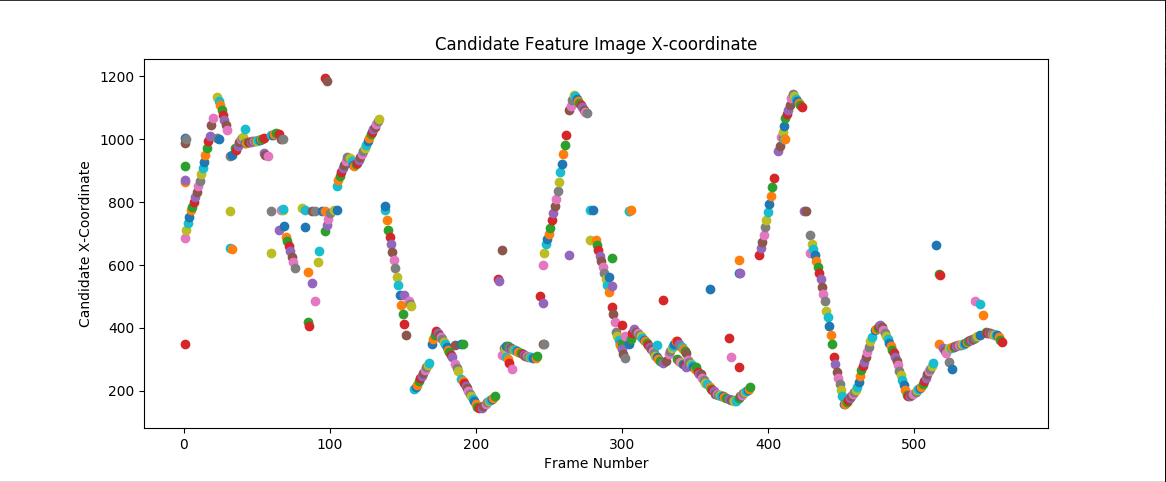
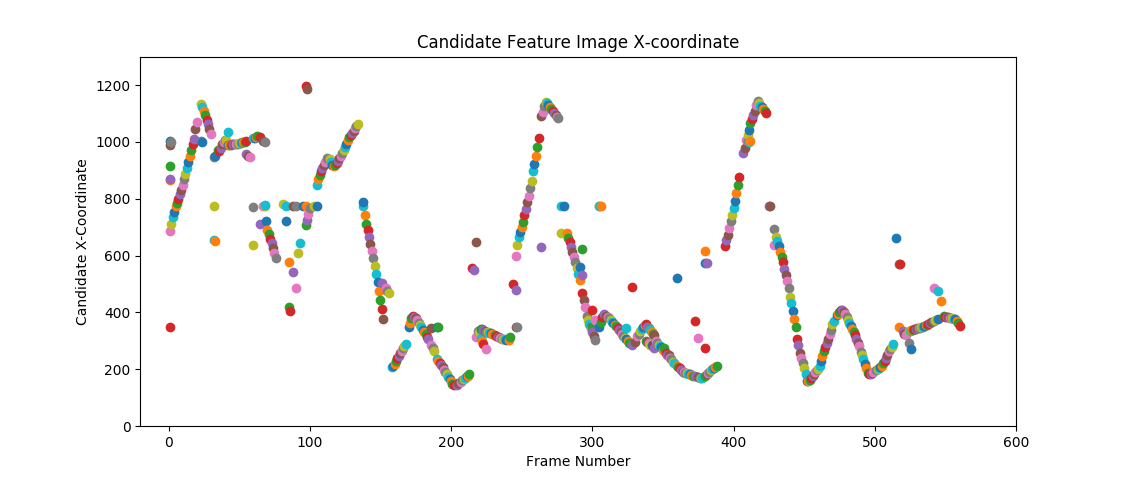
Results updated,debug added

diff --git a/kalmanCFI.py b/kalmanCFI.py
@@ -9,11 +9,14 @@ from Modules.foregroundExtraction import readyFrame, frameDifferencing, morpholo
 from Modules.ballDetection import findContours, sizeDetection, playerProximityDetection, regionDetection, courtBoundaryDetection
 
 startTimeReadingFrames = time.time()
-datasetName = "Dataset1"
+datasetName = "Dataset2"
 # Location of dataset
 filenames = glob.glob(datasetName + "/*.jpg")
-totalFramesDataset2 = 194
-totalFramesDataset1 = 560
+
+if (datasetName == "Dataset1"):
+    totalFramesDataset = 560
+elif (datasetName == "Dataset2"):
+    totalFramesDataset = 194
 
 # Reading each frame and storing it in a list
 frameList = [cv2.imread(frame) for frame in natural_sort(filenames)]
@@ -69,6 +72,9 @@ while i < (len(frameList)-2):
     # Performing morphological operations
     final_image = morphologicalOperations(threshFrameDifferencing, 4, 4)
 
+    # final_image = cv2.medianBlur(final_image,7)
+
+    cv2.imshow('final image', final_image)
     endTimeForegroundExtraction = time.time()
     print("Foreground Extraction--- %s seconds ---" %
           (endTimeForegroundExtraction - startTimeForeGroundExtraction))
@@ -144,7 +150,8 @@ while i < (len(frameList)-2):
         cv2.circle(currFrame, (tp[0], tp[1]), 10, (0, 0, 255), -1)
         dictFrameNumberscX[i + 1] = tp[0]
         dictFrameNumberscY[i + 1] = tp[1]
-        # cv2.imshow('Candidate image', currFrame)
+        if(__debug__):
+            cv2.imshow('Candidate image', currFrame)
     # If not the first frame
     else:
         # Do Prediction
@@ -155,6 +162,8 @@ while i < (len(frameList)-2):
         # If one candidate, measure and correct
         if (len(ballCandidatesFilteredProximity) == 1):
             for cand in ballCandidatesFilteredProximity:
+                # distncePredAct = math.sqrt(
+                #     math.pow((cand[0] - tp[0]), 2) + math.pow((cand[1] - tp[1]), 2))
                 x = cand[0]
                 y = cand[1]
                 x = x - initstate[0]
@@ -166,11 +175,9 @@ while i < (len(frameList)-2):
                 cv2.circle(
                     currFrame, (corrected[0], corrected[1]), 10, (0, 255, 0), -1)
                 dictFrameNumberscX[i + 1] = corrected[0]
-                dictFrameNumberscY[i+1] = corrected[1]
-                # cv2.circle(currFrame, (tp[0], tp[1]),
+                dictFrameNumberscY[i + 1] = corrected[1]
+            # cv2.circle(currFrame, (tp[0], tp[1]),
                 #            10, (0, 0, 255), -1)  # pred
-                distncePredAct = math.sqrt(
-                    math.pow((cand[0] - tp[0]), 2) + math.pow((cand[1] - tp[1]), 2))
 
                 # #drawing a line
                 # cv2.line(currFrame, (int(cand[0]), int(cand[1])), (int(
@@ -183,11 +190,12 @@ while i < (len(frameList)-2):
                 # print("Distance predact {}".format(distncePredAct))
 
                 cv2.drawContours(currFrame, [cand[3]], -1, (255, 0,), 2)
-                cv2.putText(currFrame, str(cand[0]) + "," + str(
-                    cand[1]), (cand[0] + 1, cand[1] + 1), cv2.FONT_HERSHEY_SIMPLEX, 0.5, (255, 255, 255), 2)
-                # cv2.imshow('Candidate image', currFrame)
+                cv2.putText(currFrame, str(
+                    cand[2]), (cand[0] + 1, cand[1] + 1), cv2.FONT_HERSHEY_SIMPLEX, 0.5, (255, 255, 255), 2)
+            if(__debug__):
+                cv2.imshow('Candidate image', currFrame)
 
-        # If multiple candidates, 
+        # If multiple candidates,
         elif(len(ballCandidatesFilteredProximity) > 1):
             minDistObject = 1000
             minDistXcoord = 0
@@ -231,27 +239,30 @@ while i < (len(frameList)-2):
                 dictFrameNumberscY[i+1] = corrected[1]
 
                 cv2.drawContours(currFrame, [cand[3]], -1, (255, 0,), 2)
-                cv2.putText(currFrame, str(cand[0]) + "," + str(
-                    cand[1]), (cand[0] + 1, cand[1] + 1), cv2.FONT_HERSHEY_SIMPLEX, 0.5, (255, 255, 255), 2)
-                # cv2.imshow('Candidate image', currFrame)
+                cv2.putText(currFrame, str(
+                    cand[2]), (cand[0] + 1, cand[1] + 1), cv2.FONT_HERSHEY_SIMPLEX, 0.5, (255, 255, 255), 2)
+            if(__debug__):
+                cv2.imshow('Candidate image', currFrame)
         # If no candidate detected, predict only
         else:
             cv2.circle(currFrame, (tp[0], tp[1]), 10, (0, 0, 255), -1)
             dictFrameNumberscX[i + 1] = tp[0]
             dictFrameNumberscY[i+1] = tp[1]
-            # cv2.imshow('Candidate image', currFrame)
+            if(__debug__):
+                cv2.imshow('Candidate image', currFrame)
 
     endKalmanPredTime = time.time()
 
     trackingTime.append((endKalmanPredTime -
-                                                    startKalmanPredTime)+(endKalmanInitTime-startKalmanInitTime))
+                         startKalmanPredTime)+(endKalmanInitTime-startKalmanInitTime))
 
     print("Ball Tracking in --- %s seconds ---" % ((endKalmanPredTime -
                                                     startKalmanPredTime)+(endKalmanInitTime-startKalmanInitTime)))
 
     # Print Ball Trajectory 2D Feature Image
-    if (((i + 1) % totalFramesDataset1) == 0):
-        print("Average Tracking Time: {}".format(sum(trackingTime)/totalFramesDataset1))
+    if (((i + 1) % totalFramesDataset) == 0):
+        print("Average Tracking Time: {}".format(
+            sum(trackingTime)/totalFramesDataset))
         # print(dictFrameNumberscX)
         keys = list(dictFrameNumberscX.keys())
         xvalues = list(dictFrameNumberscX.values())
@@ -260,12 +271,16 @@ while i < (len(frameList)-2):
         plt.ylabel('Candidate Kalman X-Coordinate')
         plt.title('CFI with Kalman X Prediction')
         plt.plot(keys, xvalues, 'r--', linewidth=2)
+        # plt.axis([-20, 600, 0, 1300])
+        # plt.axis([-20,210,100,1200])
         plt.show()
 
         plt.xlabel('Frame Number')
         plt.ylabel('Candidate Kalman Y-Coordinate')
         plt.title('CFI with Kalman Y Prediction')
         plt.plot(keys, yvalues, 'g--', linewidth=2)
+        # plt.axis([-20, 600, 25, 1000])
+        # plt.axis([-20,210,50,900])
         plt.show()
 
         # scatter plot
@@ -293,10 +308,11 @@ while i < (len(frameList)-2):
     i += 1  # increments the loop
 
     # Exits the loop when Esc is pressed, goes to previous frame when space pressed and goes to next frame when any other key is pressed
-    # k = cv2.waitKey(0)
-    # if k == 27:
-    #     break
-    # elif k == 32:
-    #     i -= 2
-    # else:
-    #     continue
+    if(__debug__):
+        k = cv2.waitKey(0)
+        if k == 27:
+            break
+        elif k == 32:
+            i -= 2
+        else:
+            continue

diff --git a/hawkEyeCFI.py b/hawkEyeCFI.py
@@ -7,11 +7,13 @@ from Modules.foregroundExtraction import readyFrame, frameDifferencing, morpholo
 from Modules.ballDetection import findContours, sizeDetection, playerProximityDetection, regionDetection, courtBoundaryDetection
 
 startTimeReadingFrames = time.time()
-datasetName= "Dataset1"
+datasetName = "Dataset2"
 # Location of dataset
 filenames = glob.glob(datasetName + "/*.jpg")
-totalFramesDataset2 = 194
-totalFramesDataset1 = 560
+if (datasetName == "Dataset1"):
+    totalFramesDataset = 560
+elif (datasetName == "Dataset2"):
+    totalFramesDataset = 194
 
 # Reading each frame and storing it in a list
 frameList = [cv2.imread(frame) for frame in natural_sort(filenames)]
@@ -32,7 +34,7 @@ while i < (len(frameList)-2):
     previousFrame = frameList[i]
     currFrame = frameList[i+1]
     nextFrame = frameList[i + 2]
-    
+
     print("Frame Number {}".format(i+1))
     #
     #
@@ -52,15 +54,18 @@ while i < (len(frameList)-2):
     # Performing morphological operations
     final_image = morphologicalOperations(threshFrameDifferencing, 4, 4)
 
-    endTimeForegroundExtraction=time.time()
-    print("Foreground Extraction--- %s seconds ---" % (endTimeForegroundExtraction - startTimeForeGroundExtraction))
+    # final_image = cv2.medianBlur(final_image,7)
+
+    endTimeForegroundExtraction = time.time()
+    print("Foreground Extraction--- %s seconds ---" %
+          (endTimeForegroundExtraction - startTimeForeGroundExtraction))
 
     #
     #
     # BALL DETECTION
     #
     #
-    startTimeBallDetection =time.time()
+    startTimeBallDetection = time.time()
 
     # Making a copy of pre-processed image frame
     # final_image_copy = final_image.copy()
@@ -69,21 +74,25 @@ while i < (len(frameList)-2):
     contours, hier = findContours(final_image)
 
     # Separating candidates based on size
-    ballCandidates, playerCadidates, incompletePlayerCandidates = sizeDetection(contours, currFrame,i)
+    ballCandidates, playerCadidates, incompletePlayerCandidates = sizeDetection(
+        contours, currFrame, i)
 
     # Removing candidates outside the Court Boundary in Dataset2
     if (datasetName == 'Dataset2'):
-        ballCandidates, playerCadidates, incompletePlayerCandidates = courtBoundaryDetection(ballCandidates,playerCadidates,incompletePlayerCandidates,currFrame)
+        ballCandidates, playerCadidates, incompletePlayerCandidates = courtBoundaryDetection(
+            ballCandidates, playerCadidates, incompletePlayerCandidates, currFrame)
 
     # Removing Candidates that are close to the Players
-    ballCandidatesFiltered = playerProximityDetection(ballCandidates, playerCadidates, incompletePlayerCandidates, currFrame)
+    ballCandidatesFiltered = playerProximityDetection(
+        ballCandidates, playerCadidates, incompletePlayerCandidates, currFrame)
 
     # Removing candidates that are not in their expected region after motion
-    ballCandidatesFilteredProximity, ballCandidatesPreviousFrame =regionDetection(ballCandidatesFiltered,ballCandidatesPreviousFrame,currFrame)
+    ballCandidatesFilteredProximity, ballCandidatesPreviousFrame = regionDetection(
+        ballCandidatesFiltered, ballCandidatesPreviousFrame, currFrame)
 
     endTimeBallDetection = time.time()
-    print("Ball Detection--- %s seconds ---" % (endTimeBallDetection - startTimeBallDetection))
-
+    print("Ball Detection--- %s seconds ---" %
+          (endTimeBallDetection - startTimeBallDetection))
 
     # Adding candidates in containers for CFI plotting
     dictFrameNumberscX[i+1] = []
@@ -98,10 +107,12 @@ while i < (len(frameList)-2):
             cv2.imshow('Candidate image', currFrame)
         else:
             cv2.drawContours(currFrame, [cand[3]], -1, (255, 0,), 2)
-            cv2.putText(currFrame, str(cand[0])+","+str(cand[1]),(cand[0]+1, cand[1]+1),cv2.FONT_HERSHEY_SIMPLEX, 0.5, (255, 255, 255), 2)
-            cv2.imshow('Candidate image', currFrame)
+            cv2.putText(currFrame, str(cand[0]) + "," + str(cand[1]), (cand[0] + 1,
+                                                                       cand[1] + 1), cv2.FONT_HERSHEY_SIMPLEX, 0.5, (255, 255, 255), 2)
+            if(__debug__):
+                cv2.imshow('Candidate image', currFrame)
 
-    if (((i + 1) % totalFramesDataset1) == 0):
+    if (((i + 1) % totalFramesDataset) == 0):
         print(dictFrameNumberscX)
 
         for data_dict in dictFrameNumberscX.items():
@@ -110,10 +121,12 @@ while i < (len(frameList)-2):
             values = data_dict[1]
             for value in values:
                 # plt.subplot(1, 2, 1)
-                plt.scatter(x,value)
+                plt.scatter(x, value)
                 plt.xlabel('Frame Number')
                 plt.ylabel('Candidate X-Coordinate')
                 plt.title("Candidate Feature Image X-coordinate")
+                # plt.axis([-20, 600, 0, 1300])
+                plt.axis([-20, 210, 100, 1200])
         plt.show()
 
         for data_dict in dictFrameNumberscY.items():
@@ -122,20 +135,22 @@ while i < (len(frameList)-2):
             values = data_dict[1]
             for value in values:
                 # plt.subplot(1, 2, 2)
-                plt.scatter(x,value)
+                plt.scatter(x, value)
                 plt.xlabel('Frame Number')
                 plt.ylabel('Candidate Y-Coordinate')
                 plt.title("Candidate Feature Image Y-coordinate")
+                # plt.axis([-20, 600, 25, 1000])
+                plt.axis([-20, 210, 50, 900])
         plt.show()
 
-    
     i += 1  # increments the loop
 
     # Exits the loop when Esc is pressed, goes to previous frame when space pressed and goes to next frame when any other key is pressed
-    # k = cv2.waitKey(0)
-    # if k == 27:
-    #     break
-    # elif k == 32:
-    #     i -= 2
-    # else:
-    #     continue
+    if(__debug__):
+        k = cv2.waitKey(0)
+        if k == 27:
+            break
+        elif k == 32:
+            i -= 2
+        else:
+            continue

diff --git a/ewmaHolts.py b/ewmaHolts.py
@@ -157,18 +157,19 @@ while i < (len(frameList)-2):
         # print(predYcoord)
         cv2.drawContours(
             currFrame, [ballCandidatesFilteredProximity[0][3]], -1, (255, 0,), 2)
-        # cv2.imshow('Candidate image', currFrame)
-    
+        if(__debug__):
+            cv2.imshow('Candidate image', currFrame)
+
     # If not the first frame
     else:
         # if one candidate, do prediction then estimation
         if (len(ballCandidatesFilteredProximity) == 1):
             # Prediction using estimation parameters from the previous frame
             predXcoord.append(
-                round(levelEstimateXcoord[i-1] + trendEstimateXcoord[i-1], 2)) 
+                round(levelEstimateXcoord[i-1] + trendEstimateXcoord[i-1], 2))
             predYcoord.append(
                 round(levelEstimateYcoord[i - 1] + trendEstimateYcoord[i - 1], 2))
-                
+
             # Estimation using the detection in current frame
             levelEstimateXcoord.append(alphaXcoord * ballCandidatesFilteredProximity[0][0] + (
                 1 - alphaXcoord) * (levelEstimateXcoord[i-1] + trendEstimateXcoord[i-1]))
@@ -198,7 +199,8 @@ while i < (len(frameList)-2):
 
             cv2.drawContours(
                 currFrame, [ballCandidatesFilteredProximity[0][3]], -1, (255, 0,), 2)
-            # cv2.imshow('Candidate image', currFrame)
+            if(__debug__):
+                cv2.imshow('Candidate image', currFrame)
 
         # If multiple candidates
         elif (len(ballCandidatesFilteredProximity) > 1):
@@ -283,7 +285,8 @@ while i < (len(frameList)-2):
                 cv2.drawContours(currFrame, [cand[3]], -1, (255, 0,), 2)
                 cv2.putText(currFrame, str(cand[0]) + "," + str(
                     cand[1]), (cand[0] + 1, cand[1] + 1), cv2.FONT_HERSHEY_SIMPLEX, 0.5, (255, 255, 255), 2)
-                # cv2.imshow('Candidate image', currFrame)
+                if(__debug__):
+                    cv2.imshow('Candidate image', currFrame)
 
         # If no candidate detected
         else:
@@ -322,7 +325,8 @@ while i < (len(frameList)-2):
                 currFrame, (int(predXcoord[i-1]), int(predYcoord[i-1])), 10, (0, 0, 255), -1)
             dictFrameNumberscX[i + 1] = predXcoord[i-1]
             dictFrameNumberscY[i + 1] = predYcoord[i-1]
-            # cv2.imshow('Candidate image', currFrame)
+            if(__debug__):
+                cv2.imshow('Candidate image', currFrame)
 
     endTimeExponentialPred = time.time()
     trackingTime.append(endTimeExponentialPred-startTimeExponentialPred)
@@ -353,10 +357,11 @@ while i < (len(frameList)-2):
     i += 1  # increments the loop
 
     # Exits the loop when Esc is pressed, goes to previous frame when space pressed and goes to next frame when any other key is pressed
-    # k = cv2.waitKey(0)
-    # if k == 27:
-    #     break
-    # elif k == 32:
-    #     i -= 2
-    # else:
-    #     continue
+    if(__debug__):
+        k = cv2.waitKey(0)
+        if k == 27:
+            break
+        elif k == 32:
+            i -= 2
+        else:
+            continue
